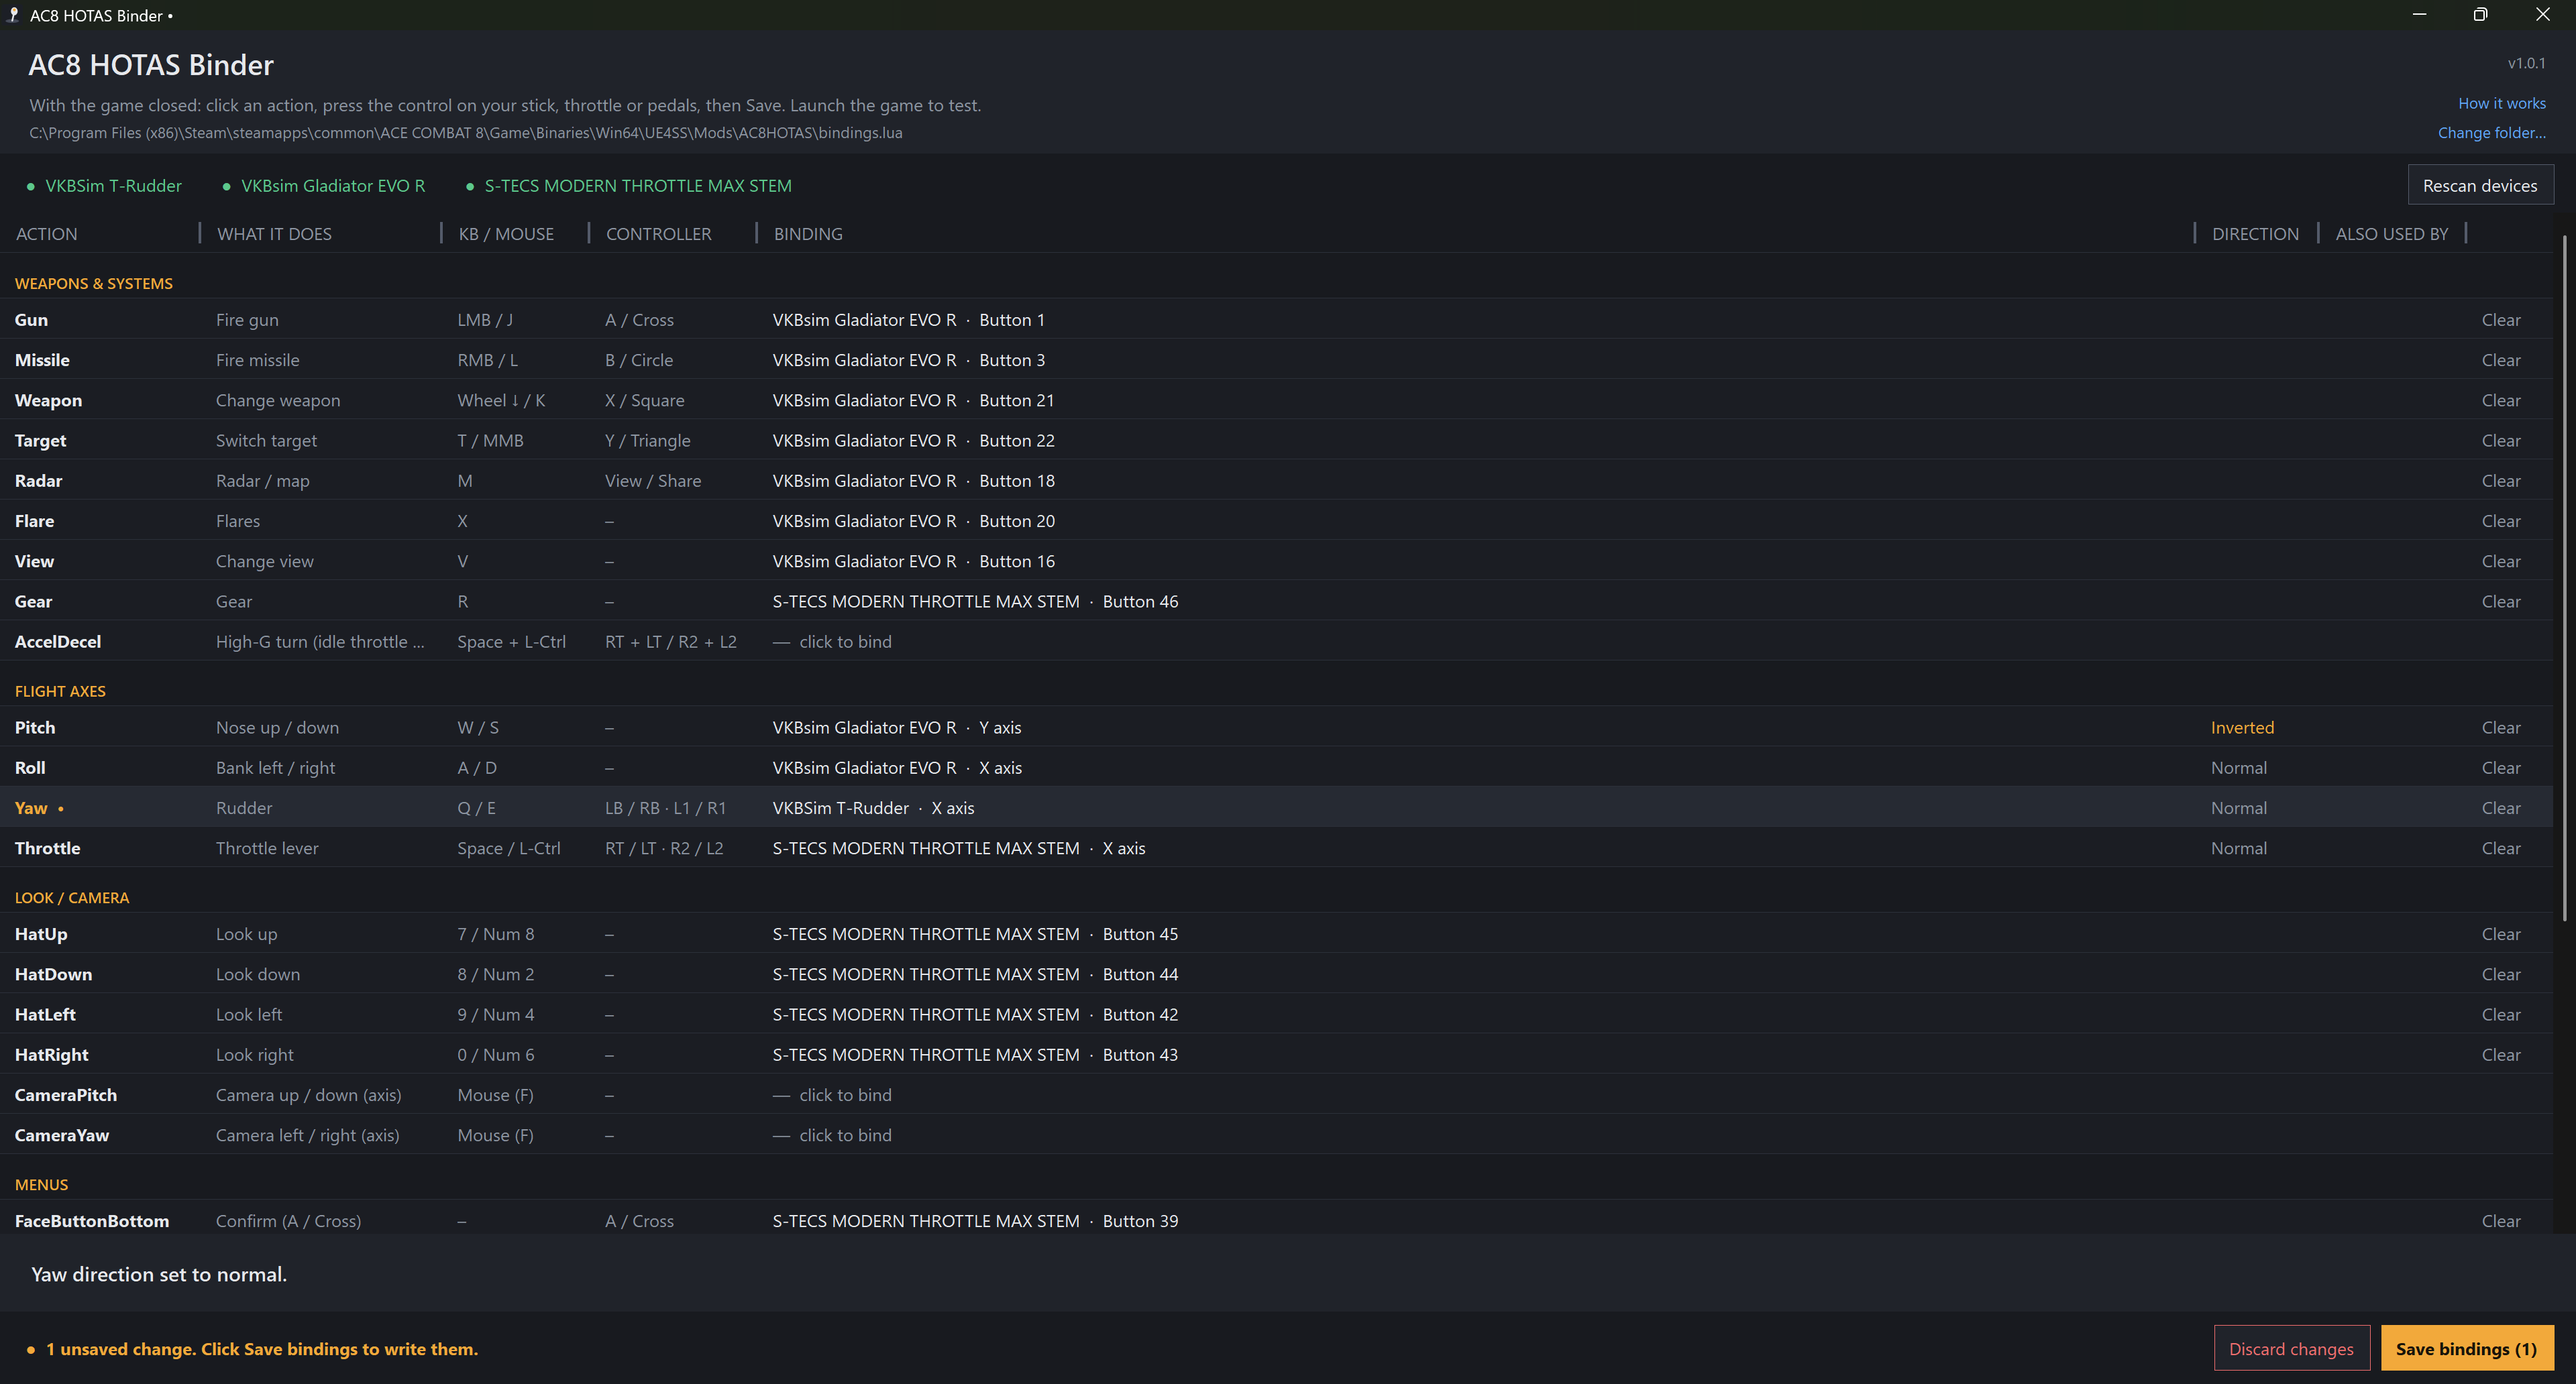
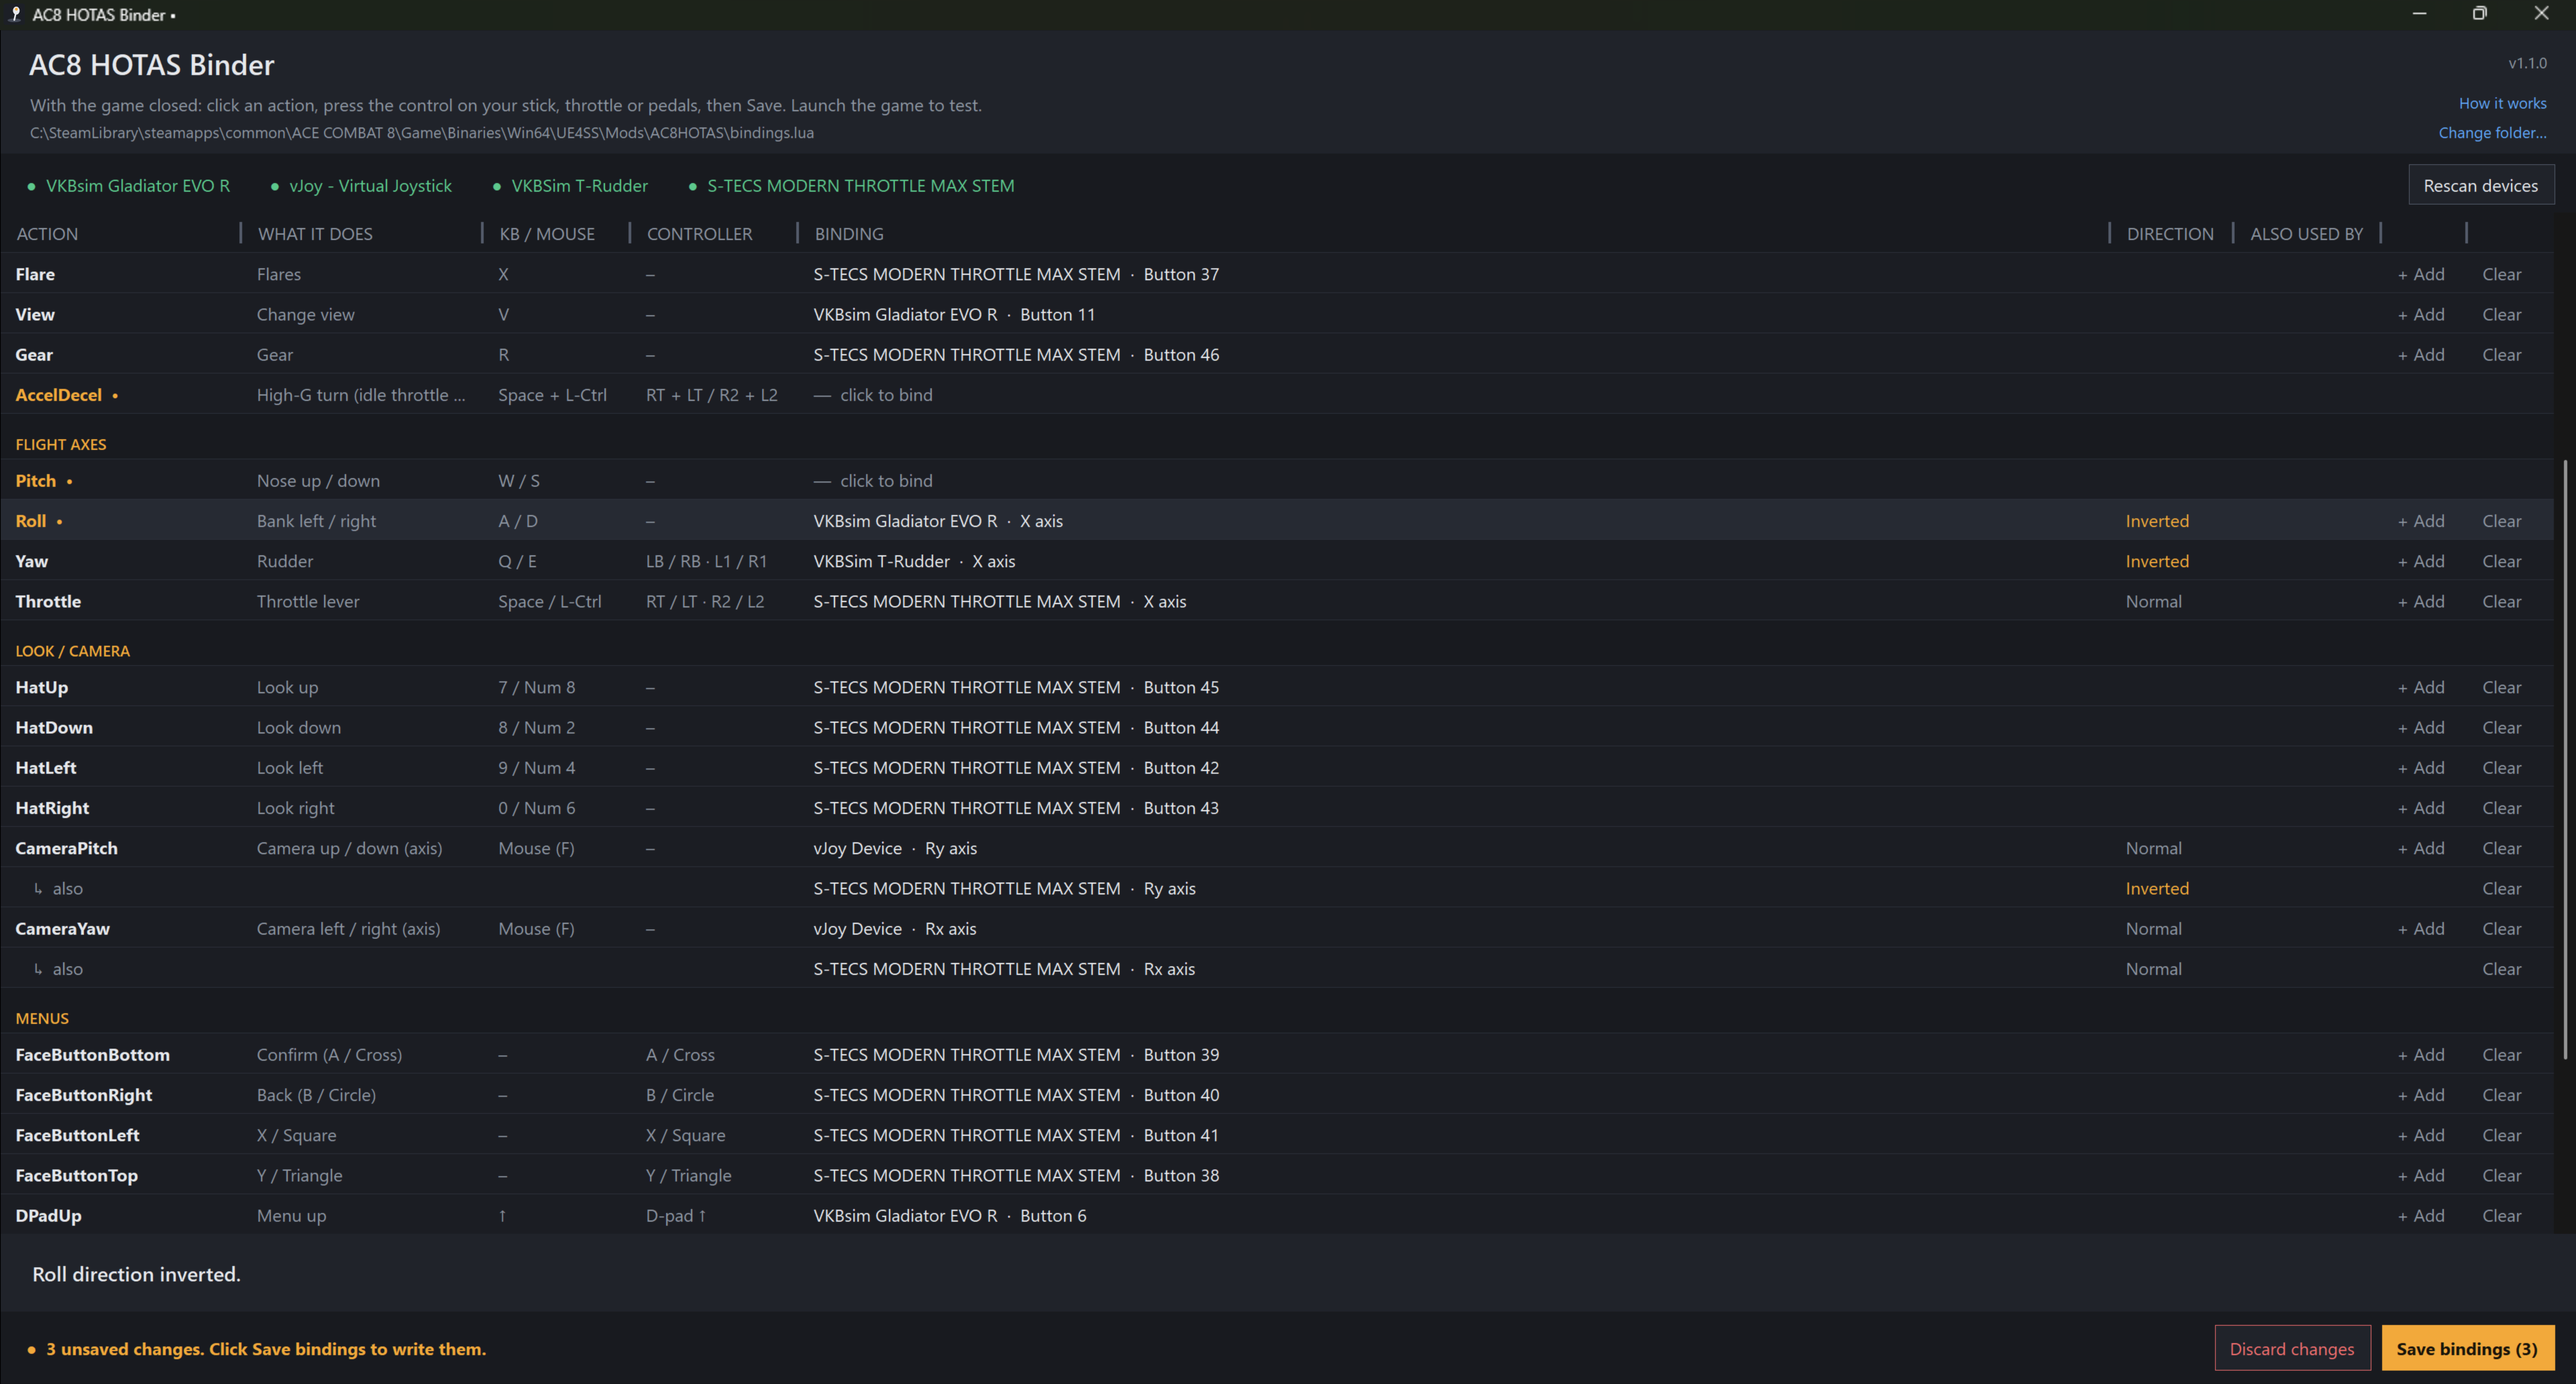
Screenshots for 1.1.0

diff --git a/README.md b/README.md
@@ -22,9 +22,9 @@ AC8HOTAS is configured by editing `bindings.lua` by hand: device GUIDs, button n
 - **Any HID game controller.** Several devices at once. Developed and tested on VKB gear (Gladiator EVO R, S-TECS throttle, T-Rudder).
 - **Read-only on your hardware.** It never changes controller settings or sends input to the game.
 
-| Binding an axis | Unsaved changes | Built-in help |
-|---|---|---|
-| ![Binding an axis](docs/images/02-binding-an-axis.png) | ![Unsaved changes](docs/images/03-unsaved-changes.png) | ![How it works](docs/images/04-how-it-works.png) |
+| Several inputs per action | Binding an axis | Unsaved changes | Built-in help |
+|---|---|---|---|
+| ![Head tracking and a throttle mini-stick on the same camera axis](docs/images/05-several-inputs.png) | ![Binding an axis](docs/images/02-binding-an-axis.png) | ![Unsaved changes](docs/images/03-unsaved-changes.png) | ![How it works](docs/images/04-how-it-works.png) |
 
 ## Install and use
 
